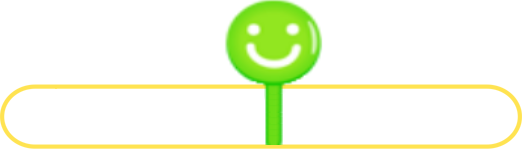
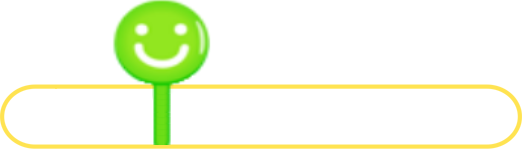
1

Changed region(s): [[0.2146, 0.0, 0.6437, 0.9867]]

diff --git a/Classes/MultipleButton.cpp b/Classes/MultipleButton.cpp
@@ -11,25 +11,24 @@ MultipleButton::MultipleButton(Vec2 pos, Sonic* sonic, Layer* layer,int button_c
 	_mSonic = sonic;
 	
 	_progressbar =  Sprite::create("GameComponents/progress.png");
-	_progressbar->setAnchorPoint(Vec2(0, 0.5f));
-	_progressbar->setScale(0.3, 0.3);
+	_progressbar->setAnchorPoint(Vec2(0.5, 0));
 
-	_border=  Sprite::create("GameComponents/border.png");
-	_border->setPosition(0, 50);
-	_border->setAnchorPoint(Vec2(0, 0.5f));
-	_border->setScale(0.3, 0.3);
-	this->addChild(_border);
+
+	_border=  Sprite::create("GameComponents/border_multi.png");
+	_border->setAnchorPoint(Vec2(0.5, 0));
+	_border->setPosition(this->getContentSize()*0.3 + Size(0, 150));
+	this->addChild(_border,2);
 
 	
 
 	_break_left_Ani= new RefPtr<Animate>(Animate::create(Animation::createWithSpriteFrames(loadAnim("Button/button_break.xml", "blue_left_break"), 0.1f)));
 	_break_right_Ani = new RefPtr<Animate>(Animate::create(Animation::createWithSpriteFrames(loadAnim("Button/button_break.xml", "blue_right_break"), 0.1f)));
 	
-	_button_count = button_count;
+	_button_count = 3;
 	_time = time;
 
-	int pos_x=0;
-	int delta_x = _border->getContentSize().width*0.3/(_button_count-1);
+	int pos_x= -_border->getContentSize().width/2;
+	int delta_x = _border->getContentSize().width/(_button_count-1);
 
 	for (int i = 0; i < _button_count; i++)
 	{
@@ -45,35 +44,36 @@ MultipleButton::MultipleButton(Vec2 pos, Sonic* sonic, Layer* layer,int button_c
 		_list_button_sprite.pushBack(button);
 		_list_button_tag.push_back(a);
 
-
-		button->setScale(0.3);
-		button->setPosition(pos_x, 0);
+		button->setAnchorPoint(Vec2(0.5, 0));
+		button->setPosition(pos_x, -20);
 		pos_x +=delta_x;
 		this->addChild(button);
 
 	}
 	mouseBar = ProgressTimer::create(_progressbar);
-	mouseBar->setScale(0.3);
 	mouseBar->setType(ProgressTimerType::BAR);
-	mouseBar->setAnchorPoint(Vec2(0.0, 0.5));
+	mouseBar->setAnchorPoint(Vec2(0.5,0));
 	mouseBar->setBarChangeRate(Vec2(1, 0));
 	mouseBar->setMidpoint(Vec2(0.0, 0.0));
 	mouseBar->setReverseDirection(true);
 	mouseBar->setPercentage(0);
-	this->addChild(mouseBar, 10);
-	mouseBar->setPosition(0, 47);
+	this->addChild(mouseBar, 1);
+	mouseBar->setPosition(this->getContentSize()*0.3 + Size(0, 150));
 
 	this->scheduleUpdate();
 
 	this->setPosition(pos);
 	layer->addChild(this);
 
-	_label = Label::createWithTTF("", "fonts/INVASION2000.TTF", 50);
-	_label->enableOutline(Color4B::BLACK, 3);
-	_label->setAnchorPoint(Vec2(0.0, 0.5));
+	_label = Label::createWithTTF("", "fonts/INVASION2000.TTF", 130);
+	_label->setAnchorPoint(Vec2(0.5f, 0));
 	_label->setVisible(false);
-	_label->setPosition(0, 50);
+	_label->enableOutline(Color4B::BLACK, 5);
+	_label->setPosition(this->getContentSize()*0.3 + Size(0, 150));
 	this->addChild(_label, 2);
+	_action = SonicState::ROLL;
+
+	this->setScale(0.33);
 //	this->autorelease();
 }
 
@@ -132,6 +132,19 @@ void MultipleButton::ActiveButton(BUTTON_TAG dir)
 			_list_button_sprite.at(current_button)->initWithFile(Define::button_left_green_path);
 		else
 			_list_button_sprite.at(current_button)->initWithFile(Define::button_right_green_path);
+
+		_list_button_sprite.at(current_button)->setAnchorPoint(Vec2(0.5, 0));
+		_list_button_sprite.at(current_button)->runAction(Sequence::create(
+			MoveBy::create(0.1, Vec2(0, 75)),
+			MoveBy::create(0.1, Vec2(0, -75)),
+			MoveBy::create(0.1, Vec2(0, 50)),
+			MoveBy::create(0.1, Vec2(0, -50)),
+			MoveBy::create(0.05, Vec2(0, 25)),
+			MoveBy::create(0.05, Vec2(0, -25)),
+			MoveBy::create(0.05, Vec2(0, 10)),
+			MoveBy::create(0.05, Vec2(0, -10)),
+			nullptr
+		));
 		current_button++;
 		if (current_button == _list_button_tag.size())
 			DeleteNow(true);
@@ -150,26 +163,33 @@ void MultipleButton::Active()
 
 void MultipleButton::DeleteNow(bool check)
 {
+	mouseBar->stopAllActions();
 	_mSonic->mCurrentButton = nullptr;
 	_mSonic->isInMultipleButton = false;
 	isDelete = true;
 	if (check)
 	{
+		_mSonic->SetStateByTag(_action);
+
 		isTrue = true;
 		auto _green_line = Sprite::create("GameComponents/green_line.png");
 		_green_line->setPosition(0, 0);
-		_green_line->setAnchorPoint(Vec2(0, 0.5));
+		
+		_green_line->setAnchorPoint(Vec2(0.5, 0));
 
 		auto line= ProgressTimer::create(_green_line);
+		line->setScale(3);
 		line->setType(ProgressTimerType::BAR);
-		line->setAnchorPoint(Vec2(0.0, 0.5));
+		line->setAnchorPoint(Vec2(0.5,1));
+
 		line->setBarChangeRate(Vec2(1, 0));
 		line->setMidpoint(Vec2(0.0, 0.0));
 		line->setPercentage(0);
+		line->setPosition(0, _list_button_sprite.at(0)->getContentSize().height/2);
 		this->addChild(line,-1);
 
 		line->runAction(ProgressTo::create(0.3f, 100.0f));
-		_mSonic->SetStateByTag(SonicState::ROLL);
+	
 		this->runAction(Sequence::create(DelayTime::create(0.6f), RemoveSelf::create(), nullptr));
 		
 		_mSonic->countCombo += _button_count;
@@ -214,27 +234,21 @@ void MultipleButton::CheckLabel(float percen)
 	_label->setVisible(true);
 	_border->setVisible(false);
 	mouseBar->setVisible(false);
-	if (percen < 40)
+	if (percen < 50)
 	{
 		_label->setColor(Color3B(255, 0, 128));
 		_label->setString("Perfect!");
 		_mSonic->score += 300 * _button_count * _mSonic->scoreMul;
 		_mSonic->countPerfect++;
 	}
-	else if (percen > 40 && percen < 70)
+	else if (percen >=50 && percen <100)
 	{
 		_label->setColor(Color3B(0, 255, 255));
 		_label->setString("Great!");
 		_mSonic->score += 200 * _button_count * _mSonic->scoreMul;
 		_mSonic->countGreat++;
 	}
-	else
-	{
-		_label->setColor(Color3B(255, 128, 0));
-		_label->setString("Bad!");
-		_mSonic->score += 100 * _button_count * _mSonic->scoreMul;
-		_mSonic->countBad++;
-	}
+
 	_label->setScale(2);
 	auto shake = Repeat::create(
 		Sequence::create(

diff --git a/Classes/LevelScene.cpp b/Classes/LevelScene.cpp
@@ -401,15 +401,15 @@ void LevelScene::SetViewPointCenter(Point position, bool isFast)
 	Vec2 viewPoint;
 
 
-	//viewPoint = centerOfView - actualPosition + Vec2(-500, 0);
-	viewPoint = centerOfView - actualPosition + Vec2(-300, 0);
+	viewPoint = centerOfView - actualPosition + Vec2(-400, 0);
+	//viewPoint = centerOfView - actualPosition + Vec2(-300, 0);
 	auto currentCameraPosition = this->getPosition();
 
-	if (_mSonic->mCurrentState->GetState() != SonicState::ROLL_CHEST)
-	{
-		this->setPosition(viewPoint);
-		//this->setPosition((viewPoint - currentCameraPosition)*Director::getInstance()->getDeltaTime() * 3 + currentCameraPosition);
-	}
+	/*if (_mSonic->mCurrentState->GetState() != SonicState::ROLL_CHEST)
+	{*/
+		//this->setPosition(viewPoint);
+		this->setPosition((viewPoint - currentCameraPosition)*0.05 + currentCameraPosition);
+	//}
 }
 
 bool LevelScene::onContactBegin(cocos2d::PhysicsContact & contact)
@@ -455,10 +455,10 @@ bool LevelScene::onContactBegin(cocos2d::PhysicsContact & contact)
 
 void LevelScene::update(float dt)
 {
-	for (int i = 0; i < 3; ++i)
+	/*for (int i = 0; i < 3; ++i)
 	{
 		this->getScene()->getPhysicsWorld()->step(1 / 60.0f);
-	}
+	}*/
 
 
 	RollBackground();

diff --git a/Classes/TapButton.cpp b/Classes/TapButton.cpp
@@ -107,6 +107,16 @@ void TapButton::ActiveButton(BUTTON_TAG dir)
 			this->initWithFile(Define::button_left_green_path);
 		else
 			this->initWithFile(Define::button_right_green_path);
+
+		this->runAction(Sequence::create(
+			MoveBy::create(0.05, Vec2(0, 25)),
+			MoveBy::create(0.05, Vec2(0, -25)),
+			MoveBy::create(0.05, Vec2(0, 10)),
+			MoveBy::create(0.05, Vec2(0, -10)),
+			nullptr
+		));
+
+
 		if (this->getPositionX() - mTarget->getPositionX()>300)
 			mTarget->SetStateByTag(SonicState::RUNSKIP);
 	}
@@ -131,7 +141,7 @@ void TapButton::CheckLabel(float percen)
 		mTarget->score += 300 * mTarget->scoreMul;
 		mTarget->countPerfect++;
 	}
-	else if (percen > 30 && percen < 70)
+	else if (percen > 30 && percen <100)
 	{
 		_label->setColor(Color3B(0,255,255));
 		_label->setString("Great!");
@@ -139,14 +149,7 @@ void TapButton::CheckLabel(float percen)
 		mTarget->score += 200 * mTarget->scoreMul;
 		mTarget->countGreat++;
 	}
-	else
-	{
-		_label->setColor(Color3B(255,128,0));
-		_label->setString("Bad!");
-		score = BAD;
-		mTarget->score += 100 * mTarget->scoreMul;
-		mTarget->countBad++;
-	}
+	
 	_label->setScale(2);
 	auto shake= Repeat::create(
 		Sequence::create(

diff --git a/Classes/SonicRunFastState.cpp b/Classes/SonicRunFastState.cpp
@@ -16,7 +16,7 @@ SonicRunFastState::~SonicRunFastState()
 
 void SonicRunFastState::update()
 {
-	//this->mPlayerData->player->SetVelocityX(340);
+	this->mPlayerData->player->SetVelocityX(340);
 	if (this->mPlayerData->player->GetVelocity().y < -5)
 		this->mPlayerData->player->SetStateByTag(SonicState::StateAction::FALL);
 }
